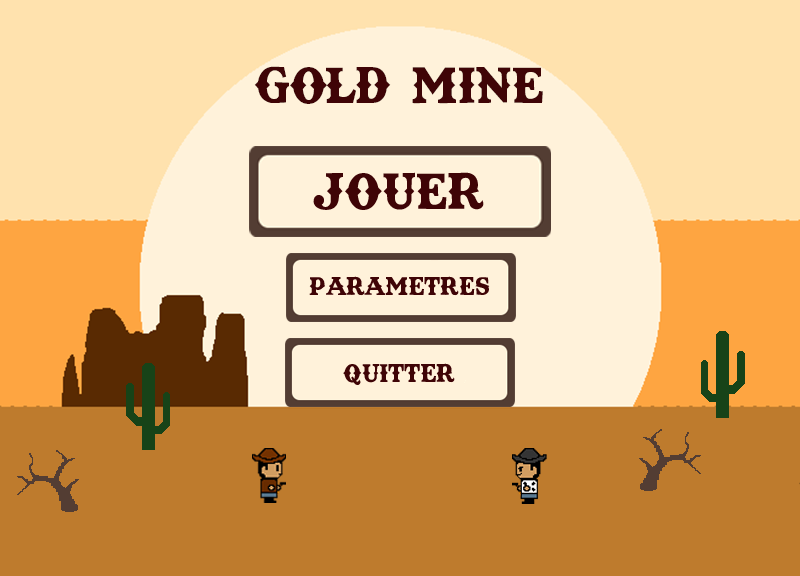
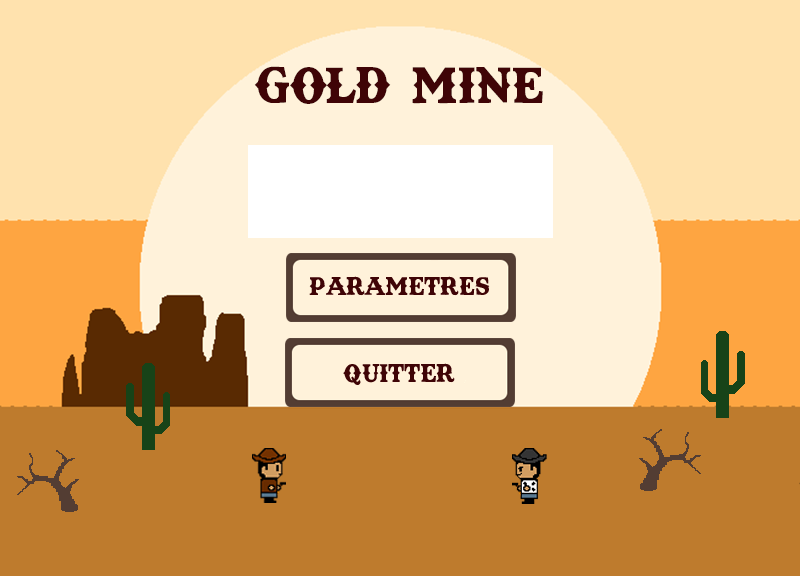
bouton jouer

Changed region(s): [[0.3125, 0.25, 0.7188, 0.4375]]

diff --git a/menu.js b/menu.js
@@ -6,6 +6,7 @@ class Menu extends Phaser.Scene{
     preload()
     {
         this.load.image('menu', 'assets/menuV2.png');
+        this.load.image('jouerButton', 'assets/jouerButton.png');
         
     } // FIN PRELOAD
         
@@ -15,11 +16,13 @@ class Menu extends Phaser.Scene{
         
         this.add.image(400, 288, 'menu');
         
-        this.input.once('pointerdown', function (event) {
+        let jouerButton = this.add.image(this.game.renderer.width / 2 +0.5 , this.game.renderer.height / 3 - 0.5 , 'jouerButton').setDepth(1);
 
+        jouerButton.setInteractive();
+
+        jouerButton.on("pointerdown", () => {
             this.scene.start('Niveau1', {x : 960, y : 540});
-
-        }, this);
+        })
         
     } //FIN CREATE
     

diff --git a/niveau1.js b/niveau1.js
@@ -34,15 +34,7 @@ create ()
 {
     
     //CREATION DE LA MAP -----------------------------------------------------------------------------
-    //this.add.image(2500, 288, 'fond');
-    //this.sol = this.physics.add.image(960, 400, 'sol');
-    //this.sol.setCollideWorldBounds(true);
-    //this.plateforme = this.physics.add.staticGroup();
-    //this.plateforme.create(1800, 0, 'sol');
-
     this.map = this.make.tilemap({ key: 'map_jeu' });
-    /*    width: 5000,
-    height: 576,*/
     this.physics.world.setBounds(0, 0, this.map.widthInPixels, this.map.heightInPixels);
     this.tileset = this.map.addTilesetImage('Tileset_Gold_mine', 'map');
     this.fond = this.map.createStaticLayer('Fond', this.tileset, 0, 0).setScrollFactor(0.1);
